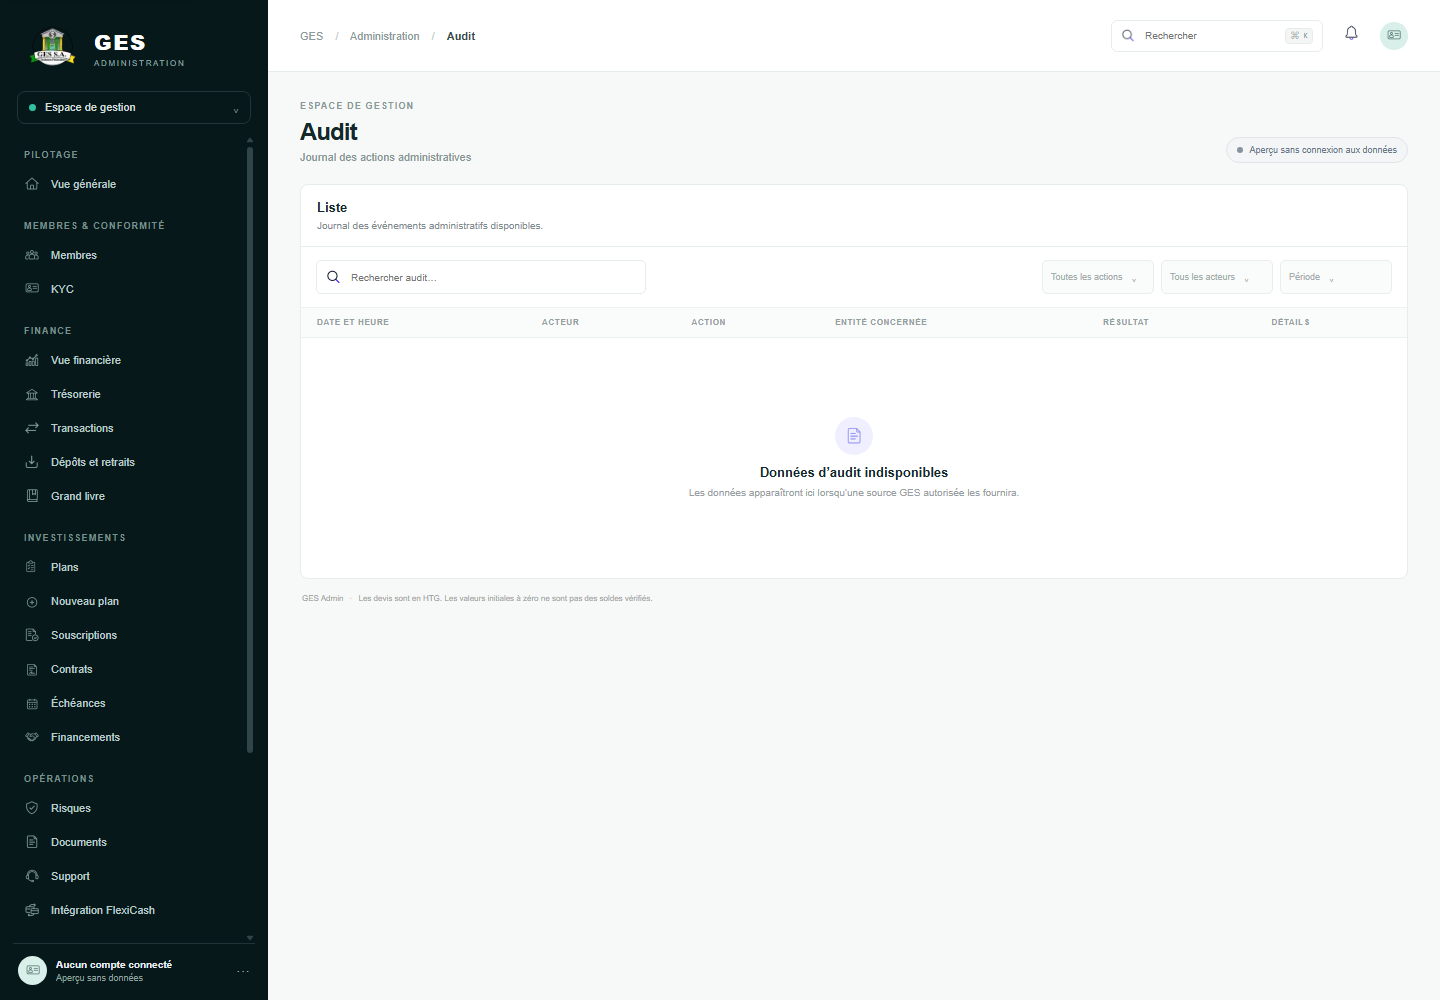
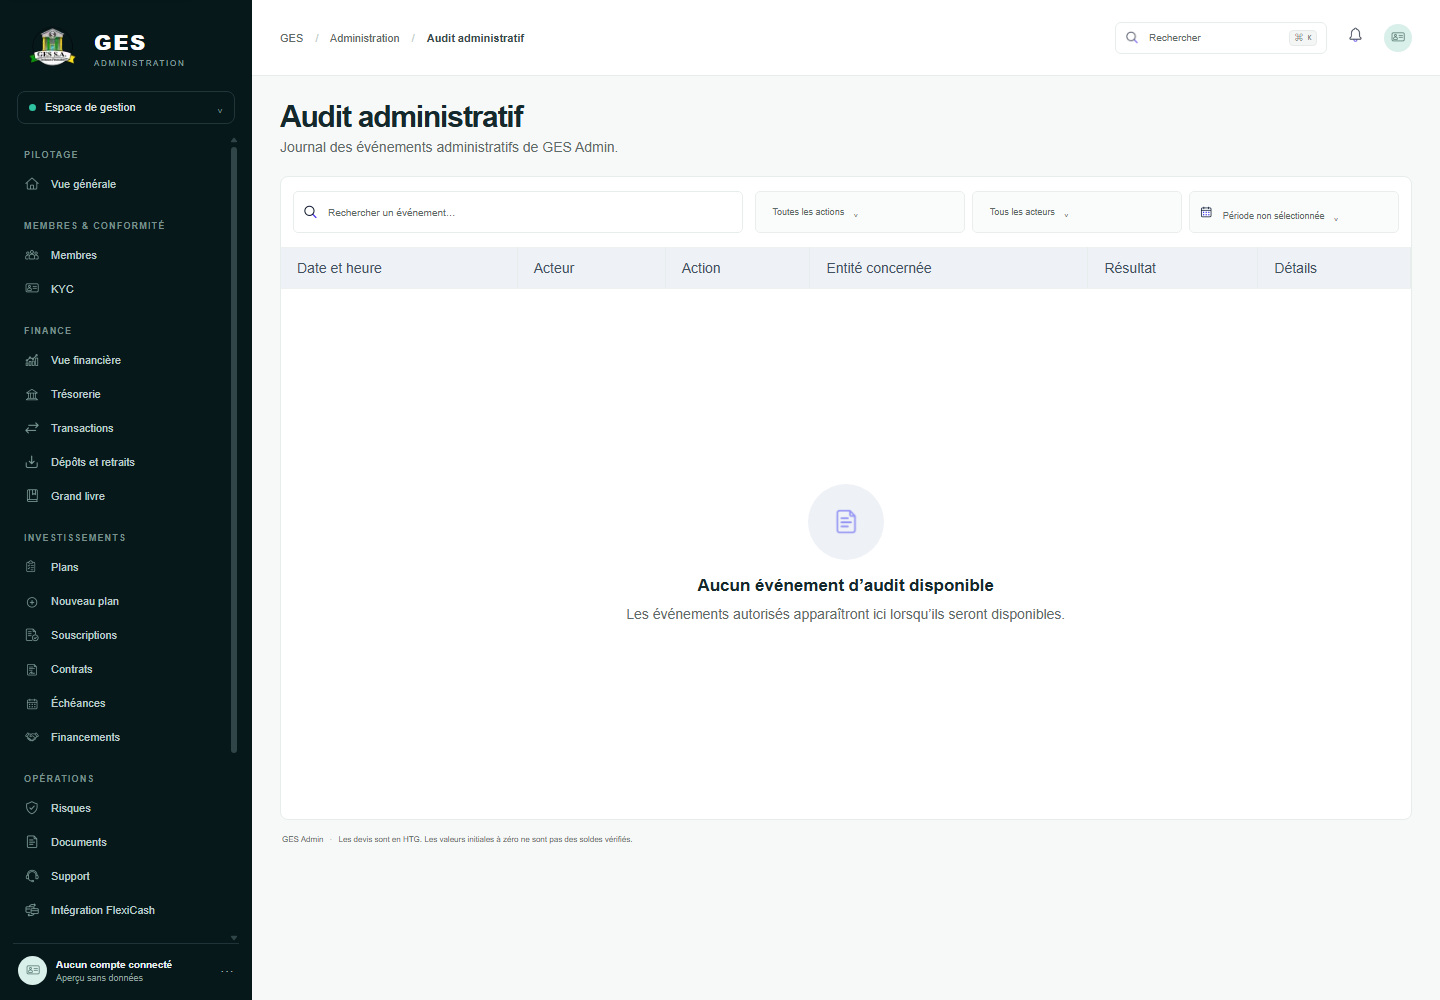
Align audit workspace with MF-30

diff --git a/components/admin-shell.tsx b/components/admin-shell.tsx
@@ -26,7 +26,7 @@ const pages: Record<string, { title: string; subtitle: string }> = {
   "vue-financiere": { title: "Vue financière générale", subtitle: "Aperçu de la position financière de GES Admin en HTG et USD." }, tresorerie: { title: "Trésorerie", subtitle: "Positions de trésorerie" }, transactions: { title: "Transactions", subtitle: "Consultez et gérez l’ensemble des transactions." },
   "depots-retraits": { title: "Dépôts et retraits", subtitle: "Suivi des mouvements entrants et sortants" }, "grand-livre": { title: "Grand livre et rapprochement", subtitle: "Consultation du grand livre comptable et rapprochement des soldes." }, plans: { title: "Catalogue des plans d’investissement", subtitle: "Vue d’ensemble des plans d’investissement autorisés sur GES Admin." },
   souscriptions: { title: "Souscriptions", subtitle: "Vue d’ensemble des souscriptions effectuées sur GES Admin." }, contrats: { title: "Contrats d’investissement", subtitle: "Liste des contrats d’investissement enregistrés dans GES Admin." }, echeances: { title: "Échéances et distributions", subtitle: "Suivi des échéances et des distributions de capital et d’intérêts." }, financements: { title: "Financements GES", subtitle: "Gestion des dossiers de financement du GES Admin." }, "plans/nouveau": { title: "Nouveau plan d’investissement", subtitle: "Créer un nouveau plan d’investissement (brouillon)." },
-  risques: { title: "Risques et alertes", subtitle: "Surveillance des risques et des alertes de GES Admin." }, documents: { title: "Documents et notifications", subtitle: "Consultez les documents et les notifications de GES Admin." }, support: { title: "Assistance et tickets", subtitle: "Liste des demandes d’assistance et de support de GES Admin." }, rapports: { title: "Rapports et analyses", subtitle: "Analysez l’activité de GES Admin grâce à des rapports et des visualisations." }, equipe: { title: "Équipe et administrateurs", subtitle: "Gestion des administrateurs et de leurs permissions dans GES Admin." }, audit: { title: "Audit", subtitle: "Journal des actions administratives" }, parametres: { title: "Paramètres", subtitle: "Configuration de l’espace" }, notifications: { title: "Notifications", subtitle: "Centre de notifications administratives" }, "roles-permissions": { title: "Rôles et permissions", subtitle: "Gestion des rôles et des permissions dans GES Admin." }, "integrations-flexicash": { title: "Intégration FlexiCash", subtitle: "Les espaces GES et FlexiCash restent séparés" },
+  risques: { title: "Risques et alertes", subtitle: "Surveillance des risques et des alertes de GES Admin." }, documents: { title: "Documents et notifications", subtitle: "Consultez les documents et les notifications de GES Admin." }, support: { title: "Assistance et tickets", subtitle: "Liste des demandes d’assistance et de support de GES Admin." }, rapports: { title: "Rapports et analyses", subtitle: "Analysez l’activité de GES Admin grâce à des rapports et des visualisations." }, equipe: { title: "Équipe et administrateurs", subtitle: "Gestion des administrateurs et de leurs permissions dans GES Admin." }, audit: { title: "Audit administratif", subtitle: "Journal des événements administratifs de GES Admin." }, parametres: { title: "Paramètres", subtitle: "Configuration de l’espace" }, notifications: { title: "Notifications", subtitle: "Centre de notifications administratives" }, "roles-permissions": { title: "Rôles et permissions", subtitle: "Gestion des rôles et des permissions dans GES Admin." }, "integrations-flexicash": { title: "Intégration FlexiCash", subtitle: "Les espaces GES et FlexiCash restent séparés" },
 };
 
 const detailPages: Record<string, { title: string; subtitle: string }> = {
@@ -148,7 +148,7 @@ export function AdminShell({ section }: { section: string }) {
     </aside>
     {menuOpen && <button className="drawer-backdrop visible" type="button" aria-label="Fermer le menu" tabIndex={-1} onClick={closeMenu}/>}
     <main className="main-area" id="main-content" tabIndex={-1} inert={menuOpen}><header className="topbar"><button ref={menuButtonRef} className="mobile-menu-toggle" onClick={() => menuOpen ? closeMenu() : setMenuOpen(true)} aria-label={menuOpen ? "Fermer le menu" : "Ouvrir le menu"} aria-expanded={menuOpen} aria-controls="primary-navigation">{menuOpen ? <Image src="/assets/icons/close.webp" alt="" width={19} height={19}/> : <span className="menu-bars" aria-hidden="true"/>}</button><div className="breadcrumb">GES <span>/</span> Administration <span>/</span> <b>{page.title}</b></div><div className="top-actions"><label className="search"><Image src="/assets/icons/search.webp" alt="" width={15} height={15}/><input placeholder="Rechercher" aria-label="Rechercher" value={searchQuery} onChange={(event) => setSearchQuery(event.target.value)}/><kbd>⌘ K</kbd></label><Link href="/admin/notifications" className="bell" aria-label="Notifications"><Image src="/assets/icons/notification.webp" alt="" width={19} height={19}/></Link><div className="top-avatar"><Image src="/assets/icons/identity.webp" alt="" width={16} height={16}/></div></div></header>
-      <div className={`content ${key === "plans/nouveau" ? "plan-content" : ""}`}>{key === "souscriptions/dossier" && <Link className="detail-back" href="/admin/souscriptions">← Retour aux souscriptions</Link>}{key === "contrats/dossier" && <Link className="detail-back" href="/admin/contrats">← Retour aux contrats</Link>}{key === "risques/incident" && <Link className="detail-back" href="/admin/risques">← Retour aux alertes</Link>}{key === "support/conversation" && <Link className="detail-back" href="/admin/support">← Retour aux tickets</Link>}<div className="page-heading"><div>{key !== "transactions" && key !== "souscriptions/dossier" && key !== "contrats/dossier" && key !== "risques/incident" && key !== "support/conversation" && key !== "documents" && key !== "rapports" && key !== "equipe" && key !== "roles-permissions" && <div className="eyebrow">ESPACE DE GESTION</div>}<h1>{page.title}</h1>{page.subtitle && <p>{page.subtitle}</p>}</div><div className="heading-actions">{key === "rapports" && <div className="reports-page-filters"><button className="filter-button" disabled>Tous les rapports <span>⌄</span></button><button className="filter-button" disabled><Image src="/assets/icons/calendar.webp" alt="" width={16} height={16}/> Période non sélectionnée <span>⌄</span></button></div>}{key !== "souscriptions/dossier" && key !== "contrats/dossier" && key !== "risques/incident" && key !== "support/conversation" && key !== "documents" && key !== "rapports" && key !== "equipe" && key !== "roles-permissions" && <span className="status-pill preview-pill"><i/> Aperçu sans connexion aux données</span>}</div></div>
+      <div className={`content ${key === "plans/nouveau" ? "plan-content" : ""}`}>{key === "souscriptions/dossier" && <Link className="detail-back" href="/admin/souscriptions">← Retour aux souscriptions</Link>}{key === "contrats/dossier" && <Link className="detail-back" href="/admin/contrats">← Retour aux contrats</Link>}{key === "risques/incident" && <Link className="detail-back" href="/admin/risques">← Retour aux alertes</Link>}{key === "support/conversation" && <Link className="detail-back" href="/admin/support">← Retour aux tickets</Link>}<div className="page-heading"><div>{key !== "transactions" && key !== "souscriptions/dossier" && key !== "contrats/dossier" && key !== "risques/incident" && key !== "support/conversation" && key !== "documents" && key !== "rapports" && key !== "equipe" && key !== "roles-permissions" && key !== "audit" && <div className="eyebrow">ESPACE DE GESTION</div>}<h1>{page.title}</h1>{page.subtitle && <p>{page.subtitle}</p>}</div><div className="heading-actions">{key === "rapports" && <div className="reports-page-filters"><button className="filter-button" disabled>Tous les rapports <span>⌄</span></button><button className="filter-button" disabled><Image src="/assets/icons/calendar.webp" alt="" width={16} height={16}/> Période non sélectionnée <span>⌄</span></button></div>}{key !== "souscriptions/dossier" && key !== "contrats/dossier" && key !== "risques/incident" && key !== "support/conversation" && key !== "documents" && key !== "rapports" && key !== "equipe" && key !== "roles-permissions" && key !== "audit" && <span className="status-pill preview-pill"><i/> Aperçu sans connexion aux données</span>}</div></div>
       {key === "notifications" ? <NotificationsWorkspace query={searchQuery} onQueryChange={setSearchQuery}/> : key === "plans/nouveau" ? <><Link href="/admin/plans" className="plan-back">← Retour aux plans</Link><PlanForm/></> : overview ? <>{financial && <div className="module-notice">Valeurs initiales — les montants affichés sont à confirmer et ne constituent pas des soldes vérifiés.</div>}<div className={`metric-grid ${financial ? "financial-metrics" : ""}`}>{metrics.map(([label,value,caption])=><MetricCard key={label} label={label} value={value} caption={caption}/>)}</div>
       {financial && <UsdUnavailable/>}
       <div className={`overview-grid ${financial ? "financial-overview-grid" : "command-overview-grid"}`}><section className="panel"><div className="panel-head"><div><h2>{financial ? "Tendance de trésorerie" : "Tendance financière"}</h2></div>{financial && <button className="select-button" disabled title="Les données sont indisponibles">Période⌄</button>}</div><div className="chart-empty"><div className="chart-lines"><span/><span/><span/><span/></div><div className="chart-message">Aucune donnée disponible</div></div></section><section className="panel breakdown"><div className="panel-head"><div><h2>{financial ? "Obligations à venir" : "Répartition des investissements"}</h2></div>{financial && <button className="dots" disabled aria-label="Options indisponibles">···</button>}</div>{financial ? <div className="donut-wrap"><p>Aucune donnée disponible</p></div> : <div className="donut-wrap"><div className="donut"><div/></div><p>Aucune donnée disponible</p></div>}</section></div>

diff --git a/components/module-workspace.tsx b/components/module-workspace.tsx
@@ -30,7 +30,7 @@ const pages: Record<string, ModulePage> = {
   documents: { description: "Documents disponibles dans les espaces GES autorisés.", filters: ["Tous les types"], columns: ["DOCUMENT", "CATÉGORIE", "LIÉ À", "MODIFIÉ LE", "ÉTAT"], empty: "Données documentaires indisponibles" },
   support: { description: "Demandes d’assistance GES disponibles.", title: "Liste des tickets", toolbarTitle: true, searchPlaceholder: "Rechercher un ticket…", filters: ["Tous les statuts", "Toutes les catégories", "Toutes les priorités"], columns: ["Sujet", "Membre", "Catégorie", "Priorité", "Statut", "Dernière mise à jour", "Actions"], empty: "Aucun ticket à afficher", emptyDescription: "Les demandes d’assistance apparaîtront ici lorsqu’elles seront disponibles." },
   equipe: { description: "Gestion des administrateurs et de leurs permissions dans GES Admin.", searchPlaceholder: "Rechercher un administrateur…", filters: ["Tous les rôles", "Tous les statuts"], columns: ["Administrateur", "Rôle", "Permissions", "Statut", "Dernière connexion", "Actions"], empty: "Aucun administrateur à afficher", emptyDescription: "Les comptes autorisés apparaîtront ici lorsqu’ils seront disponibles.", variant: "team-list-panel" },
-  audit: { description: "Journal des événements administratifs disponibles.", filters: ["Toutes les actions", "Tous les acteurs", "Période"], columns: ["DATE ET HEURE", "ACTEUR", "ACTION", "ENTITÉ CONCERNÉE", "RÉSULTAT", "DÉTAILS"], empty: "Données d’audit indisponibles" },
+  audit: { description: "Journal des événements administratifs disponibles.", searchPlaceholder: "Rechercher un événement…", filters: ["Toutes les actions", "Tous les acteurs", "Période non sélectionnée"], columns: ["Date et heure", "Acteur", "Action", "Entité concernée", "Résultat", "Détails"], empty: "Aucun événement d’audit disponible", emptyDescription: "Les événements autorisés apparaîtront ici lorsqu’ils seront disponibles.", variant: "audit-list-panel" },
 };
 
 function EmptyState({ title, searching, description }: { title: string; searching: boolean; description?: string }) {
@@ -93,5 +93,5 @@ if (sectionKey === "rapports") return <>
 }
 
 function GenericTable({ sectionKey, page, query, onQueryChange, activeTab, setActiveTab }: { sectionKey: string; page: ModulePage; query: string; onQueryChange: (value: string) => void; activeTab: number; setActiveTab: (value: number) => void }) {
-  return <section className={`panel list-panel module-list-panel ${page.showSearch === false ? "no-list-search" : ""} ${page.variant ?? ""}`}>{page.title && !page.toolbarTitle && <div className="module-panel-header"><div><h2>{page.title}</h2>{page.description && <p>{page.description}</p>}</div></div>}{page.tabs && <div className="module-tabs">{page.tabs.map((tab, index) => <button key={tab} className={activeTab === index ? "selected" : ""} onClick={() => setActiveTab(index)}>{tab}</button>)}</div>}{page.showSearch !== false && <div className={`module-toolbar ${page.toolbarTitle ? "module-toolbar-titled" : ""}`}>{page.toolbarTitle && <h2>{page.title}</h2>}<label className="filter-search"><Image src="/assets/icons/search.webp" alt="" width={16} height={16}/><input aria-label={`Rechercher dans ${sectionKey}`} placeholder={page.searchPlaceholder ?? `Rechercher ${sectionKey.replaceAll("-", " ")}…`} value={query} onChange={(event) => onQueryChange(event.target.value)}/></label><div className="module-filter-row">{page.filters.map((filter) => <button key={filter} className="filter-button" disabled>{filter.startsWith("Sélectionner une période") && <Image className="period-filter-icon" src="/assets/icons/calendar.webp" alt="" width={16} height={16}/>}<span className="filter-label">{filter}</span><span>⌄</span></button>)}</div></div>}<div className="table-wrap"><table><thead><tr>{page.columns.map((column, index) => <th key={column} className={column.includes("HTG") ? "align-right" : ""}>{column}</th>)}</tr></thead><tbody><tr><td colSpan={page.columns.length}><EmptyState title={page.empty} description={page.emptyDescription} searching={query.trim().length > 0}/></td></tr></tbody></table></div></section>;
+  return <section className={`panel list-panel module-list-panel ${page.showSearch === false ? "no-list-search" : ""} ${page.variant ?? ""}`}>{page.title && !page.toolbarTitle && <div className="module-panel-header"><div><h2>{page.title}</h2>{page.description && <p>{page.description}</p>}</div></div>}{page.tabs && <div className="module-tabs">{page.tabs.map((tab, index) => <button key={tab} className={activeTab === index ? "selected" : ""} onClick={() => setActiveTab(index)}>{tab}</button>)}</div>}{page.showSearch !== false && <div className={`module-toolbar ${page.toolbarTitle ? "module-toolbar-titled" : ""}`}>{page.toolbarTitle && <h2>{page.title}</h2>}<label className="filter-search"><Image src="/assets/icons/search.webp" alt="" width={16} height={16}/><input aria-label={`Rechercher dans ${sectionKey}`} placeholder={page.searchPlaceholder ?? `Rechercher ${sectionKey.replaceAll("-", " ")}…`} value={query} onChange={(event) => onQueryChange(event.target.value)}/></label><div className="module-filter-row">{page.filters.map((filter) => <button key={filter} className="filter-button" disabled>{(filter.startsWith("Sélectionner une période") || filter.startsWith("Période non sélectionnée")) && <Image className="period-filter-icon" src="/assets/icons/calendar.webp" alt="" width={16} height={16}/>}<span className="filter-label">{filter}</span><span>⌄</span></button>)}</div></div>}<div className="table-wrap"><table><thead><tr>{page.columns.map((column, index) => <th key={column} className={column.includes("HTG") ? "align-right" : ""}>{column}</th>)}</tr></thead><tbody><tr><td colSpan={page.columns.length}><EmptyState title={page.empty} description={page.emptyDescription} searching={query.trim().length > 0}/></td></tr></tbody></table></div></section>;
 }

diff --git a/app/globals.css b/app/globals.css
@@ -81,3 +81,5 @@ a:focus-visible,button:focus-visible,input:focus-visible,select:focus-visible,te
 .role-list-panel .role-permission-empty{min-height:265px}.permission-grid-icon{height:68px;width:68px;margin-bottom:12px;border-radius:50%;background:#eef1f6;display:grid;grid-template-columns:repeat(2,14px);grid-template-rows:repeat(2,14px);align-content:center;justify-content:center;gap:5px}.permission-grid-icon i{border:2px solid #7c88ac;border-radius:3px}
 @media(max-width:700px){.role-list-panel .table-wrap{overflow-x:hidden}.role-list-panel table{width:100%;min-width:0;table-layout:fixed}.role-list-panel th{padding:8px 4px;font-size:9px;white-space:normal}.role-list-panel tbody,.role-list-panel tbody tr,.role-list-panel tbody td{display:block;width:100%}.role-list-panel tbody td{padding:0}.role-list-panel .role-permission-empty{box-sizing:border-box;width:100%;min-height:185px;padding:14px 8px}.role-list-panel .role-permission-empty strong{font-size:13px}.role-list-panel .role-permission-empty p{font-size:11px}.role-list-panel .role-permission-empty-icon{width:56px;height:56px}}
 @media(max-width:700px){.role-list-panel .role-permission-empty{width:calc(100vw - 56px);flex:0 0 auto}.role-list-panel .role-permission-empty p{max-width:100%}}
+.audit-list-panel .module-toolbar{padding:14px 12px;gap:12px}.audit-list-panel .module-toolbar .filter-search{max-width:none;flex:1;min-width:180px}.audit-list-panel .module-filter-row{flex:1;justify-content:stretch;flex-wrap:nowrap}.audit-list-panel .module-filter-row .filter-button{flex:1;min-width:130px}.audit-list-panel th{background:#eef1f6;border-right:1px solid var(--line);text-transform:none;letter-spacing:0;font-size:14px;font-weight:500;color:#43505e}.audit-list-panel .module-empty{min-height:530px}.audit-list-panel .module-empty-icon{height:76px;width:76px;background:#eef1f6}.audit-list-panel .module-empty h2{font-size:17px}.audit-list-panel .module-empty p{font-size:14px}@media(max-width:760px){.audit-list-panel .module-toolbar{align-items:stretch;flex-wrap:wrap}.audit-list-panel .module-toolbar .filter-search{flex:1 1 100%}.audit-list-panel .module-filter-row{justify-content:flex-start;flex-wrap:wrap}.audit-list-panel .module-filter-row .filter-button{flex:1 1 130px;min-width:0}.audit-list-panel .module-empty{min-height:330px}.audit-list-panel th{font-size:10px;white-space:nowrap}}
+.audit-list-panel .module-toolbar .filter-search{flex:2;min-width:0}.audit-list-panel .module-filter-row{flex:3}.audit-list-panel .module-filter-row .filter-button{min-width:0}

diff --git a/design/qa/README.md b/design/qa/README.md
@@ -170,3 +170,4 @@ Captures MF-26 : admin-documents-notifications-1440x1000.png et admin-documents-
 Captures MF-27 : admin-rapports-1440x1000.png et admin-rapports-390x844.png. Rapports et analyses utilisent des filtres inactifs faute de source autorisee; vues analytiques et catalogue restent vides. Aucun chiffre, periode, rapport ou statut fictif.
 Captures MF-28 : admin-equipe-1440x1000.png et admin-equipe-390x844.png. Colonnes conformes au Master Frame; aucun administrateur, role, permission ou acces fictif. Recherche disponible, filtres inactifs sans source GES; tableau vide et defilable sur mobile.
 Captures MF-29 : admin-roles-permissions-1440x1000.png et admin-roles-permissions-390x844.png. Onglets navigables vers le catalogue et la matrice; aucun role ou droit n'est preconfigure. Les decisions effectives restent sous controle serveur.
+Captures MF-30 : admin-audit-1440x1000.png et admin-audit-390x844.png. Recherche et filtres sont visibles, sans date preselectionnee. Le journal reste vide sans evenement autorise; aucun acteur, horodatage ou resultat n'est invente.
